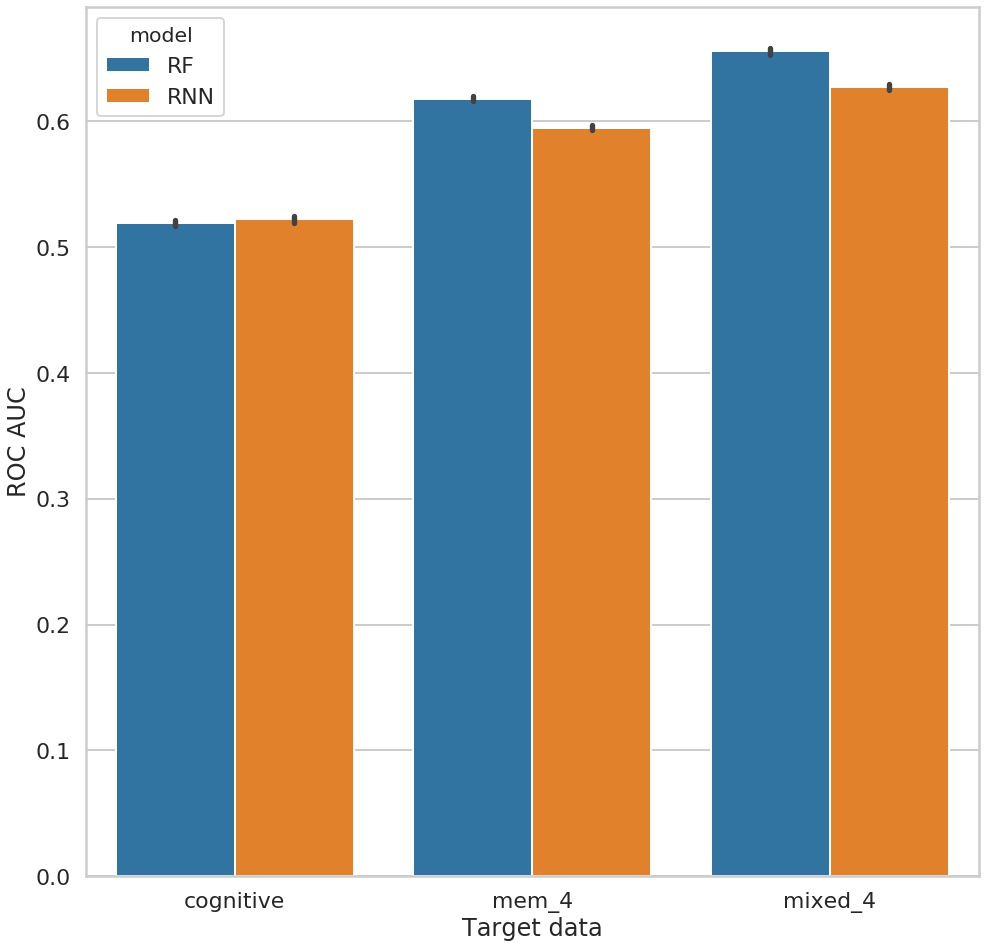
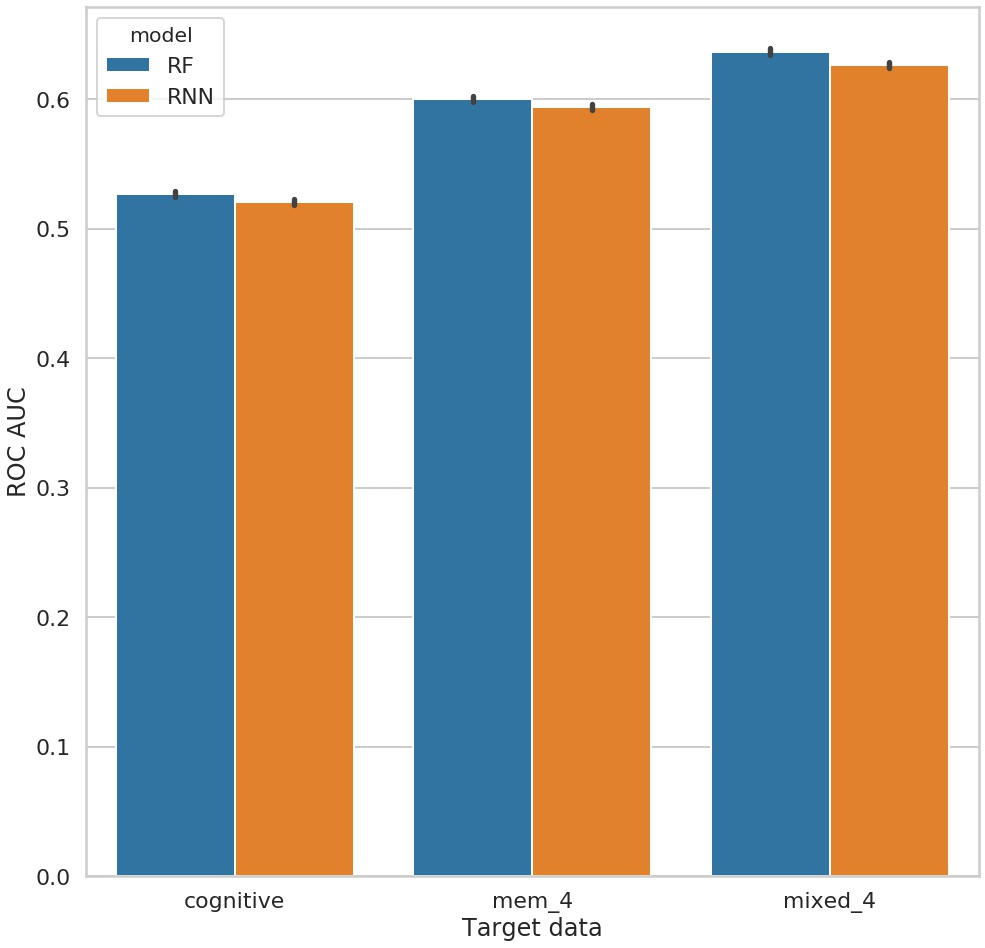
update figures

diff --git a/scripts/plot_CD.py b/scripts/plot_CD.py
@@ -17,7 +17,7 @@ import seaborn as sns
 sns.set_style('whitegrid')
 sns.set_context('poster')
 
-experiment = 'confidence' # confidence or adequacy
+experiment = 'adequacy' # confidence or adequacy
 working_dir = f'../results/{experiment}/R*CD/'
 figure_dir = f'../figures/{experiment}/CD'
 if not os.path.exists(figure_dir):
